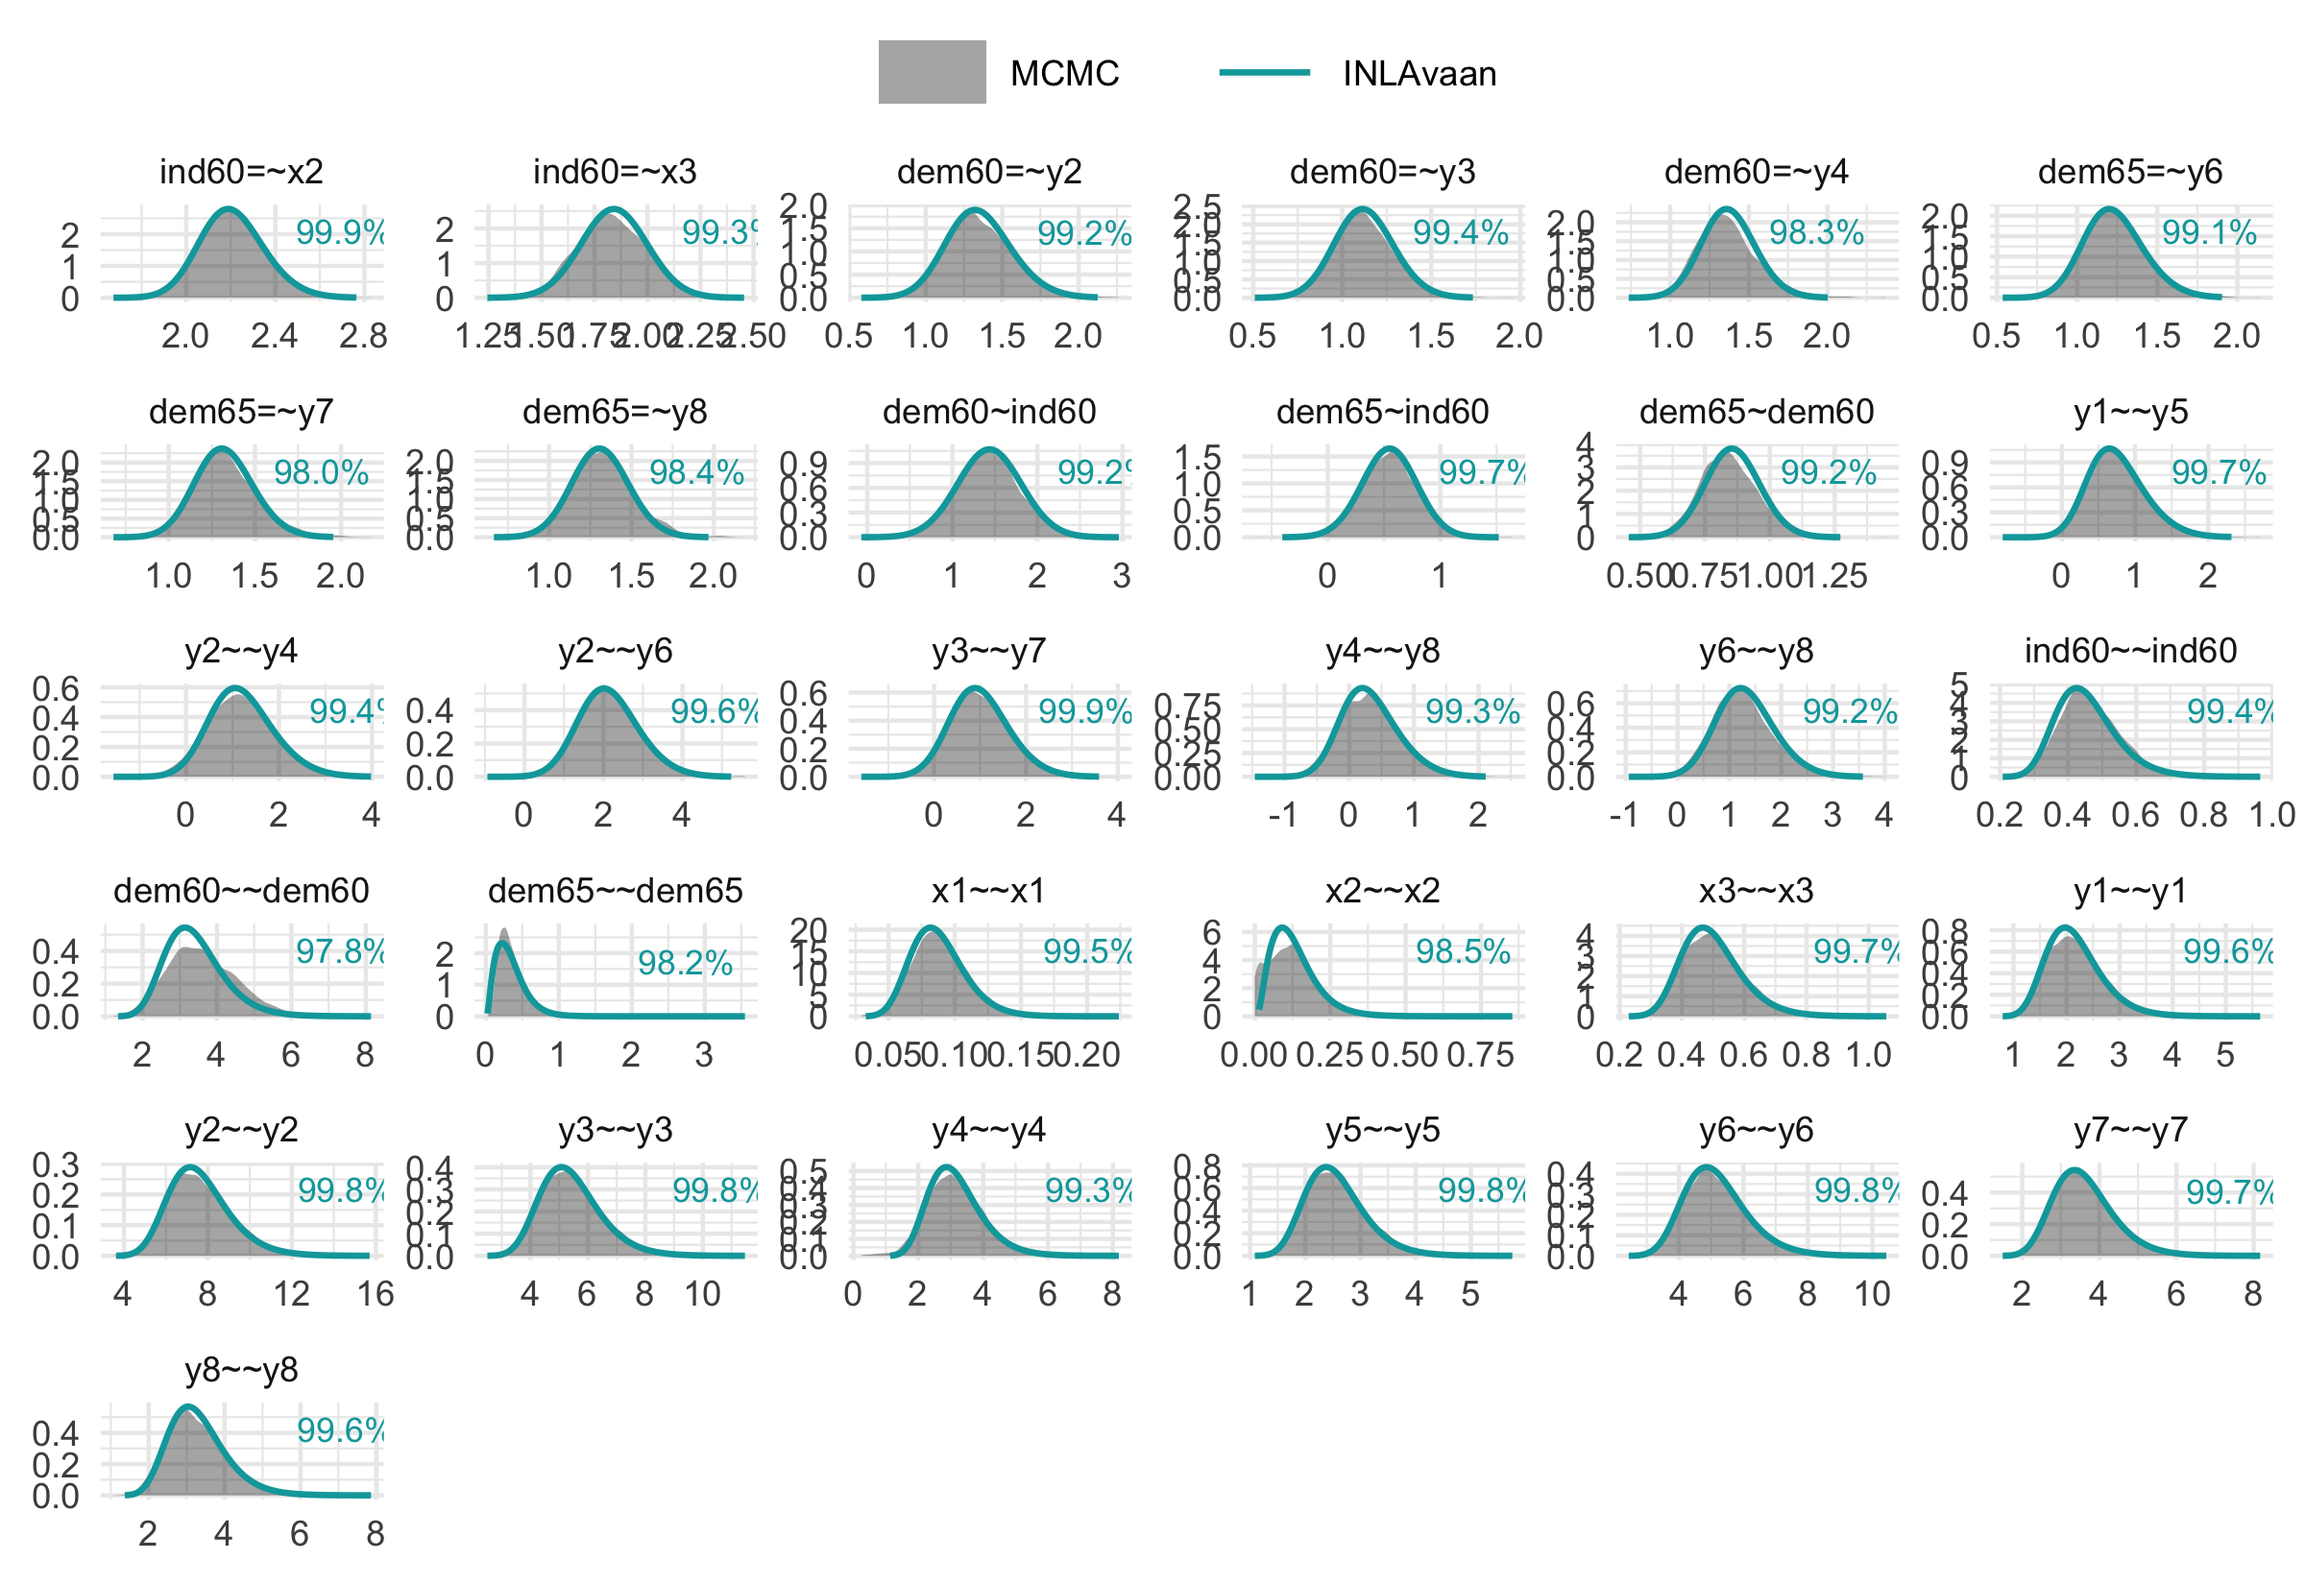
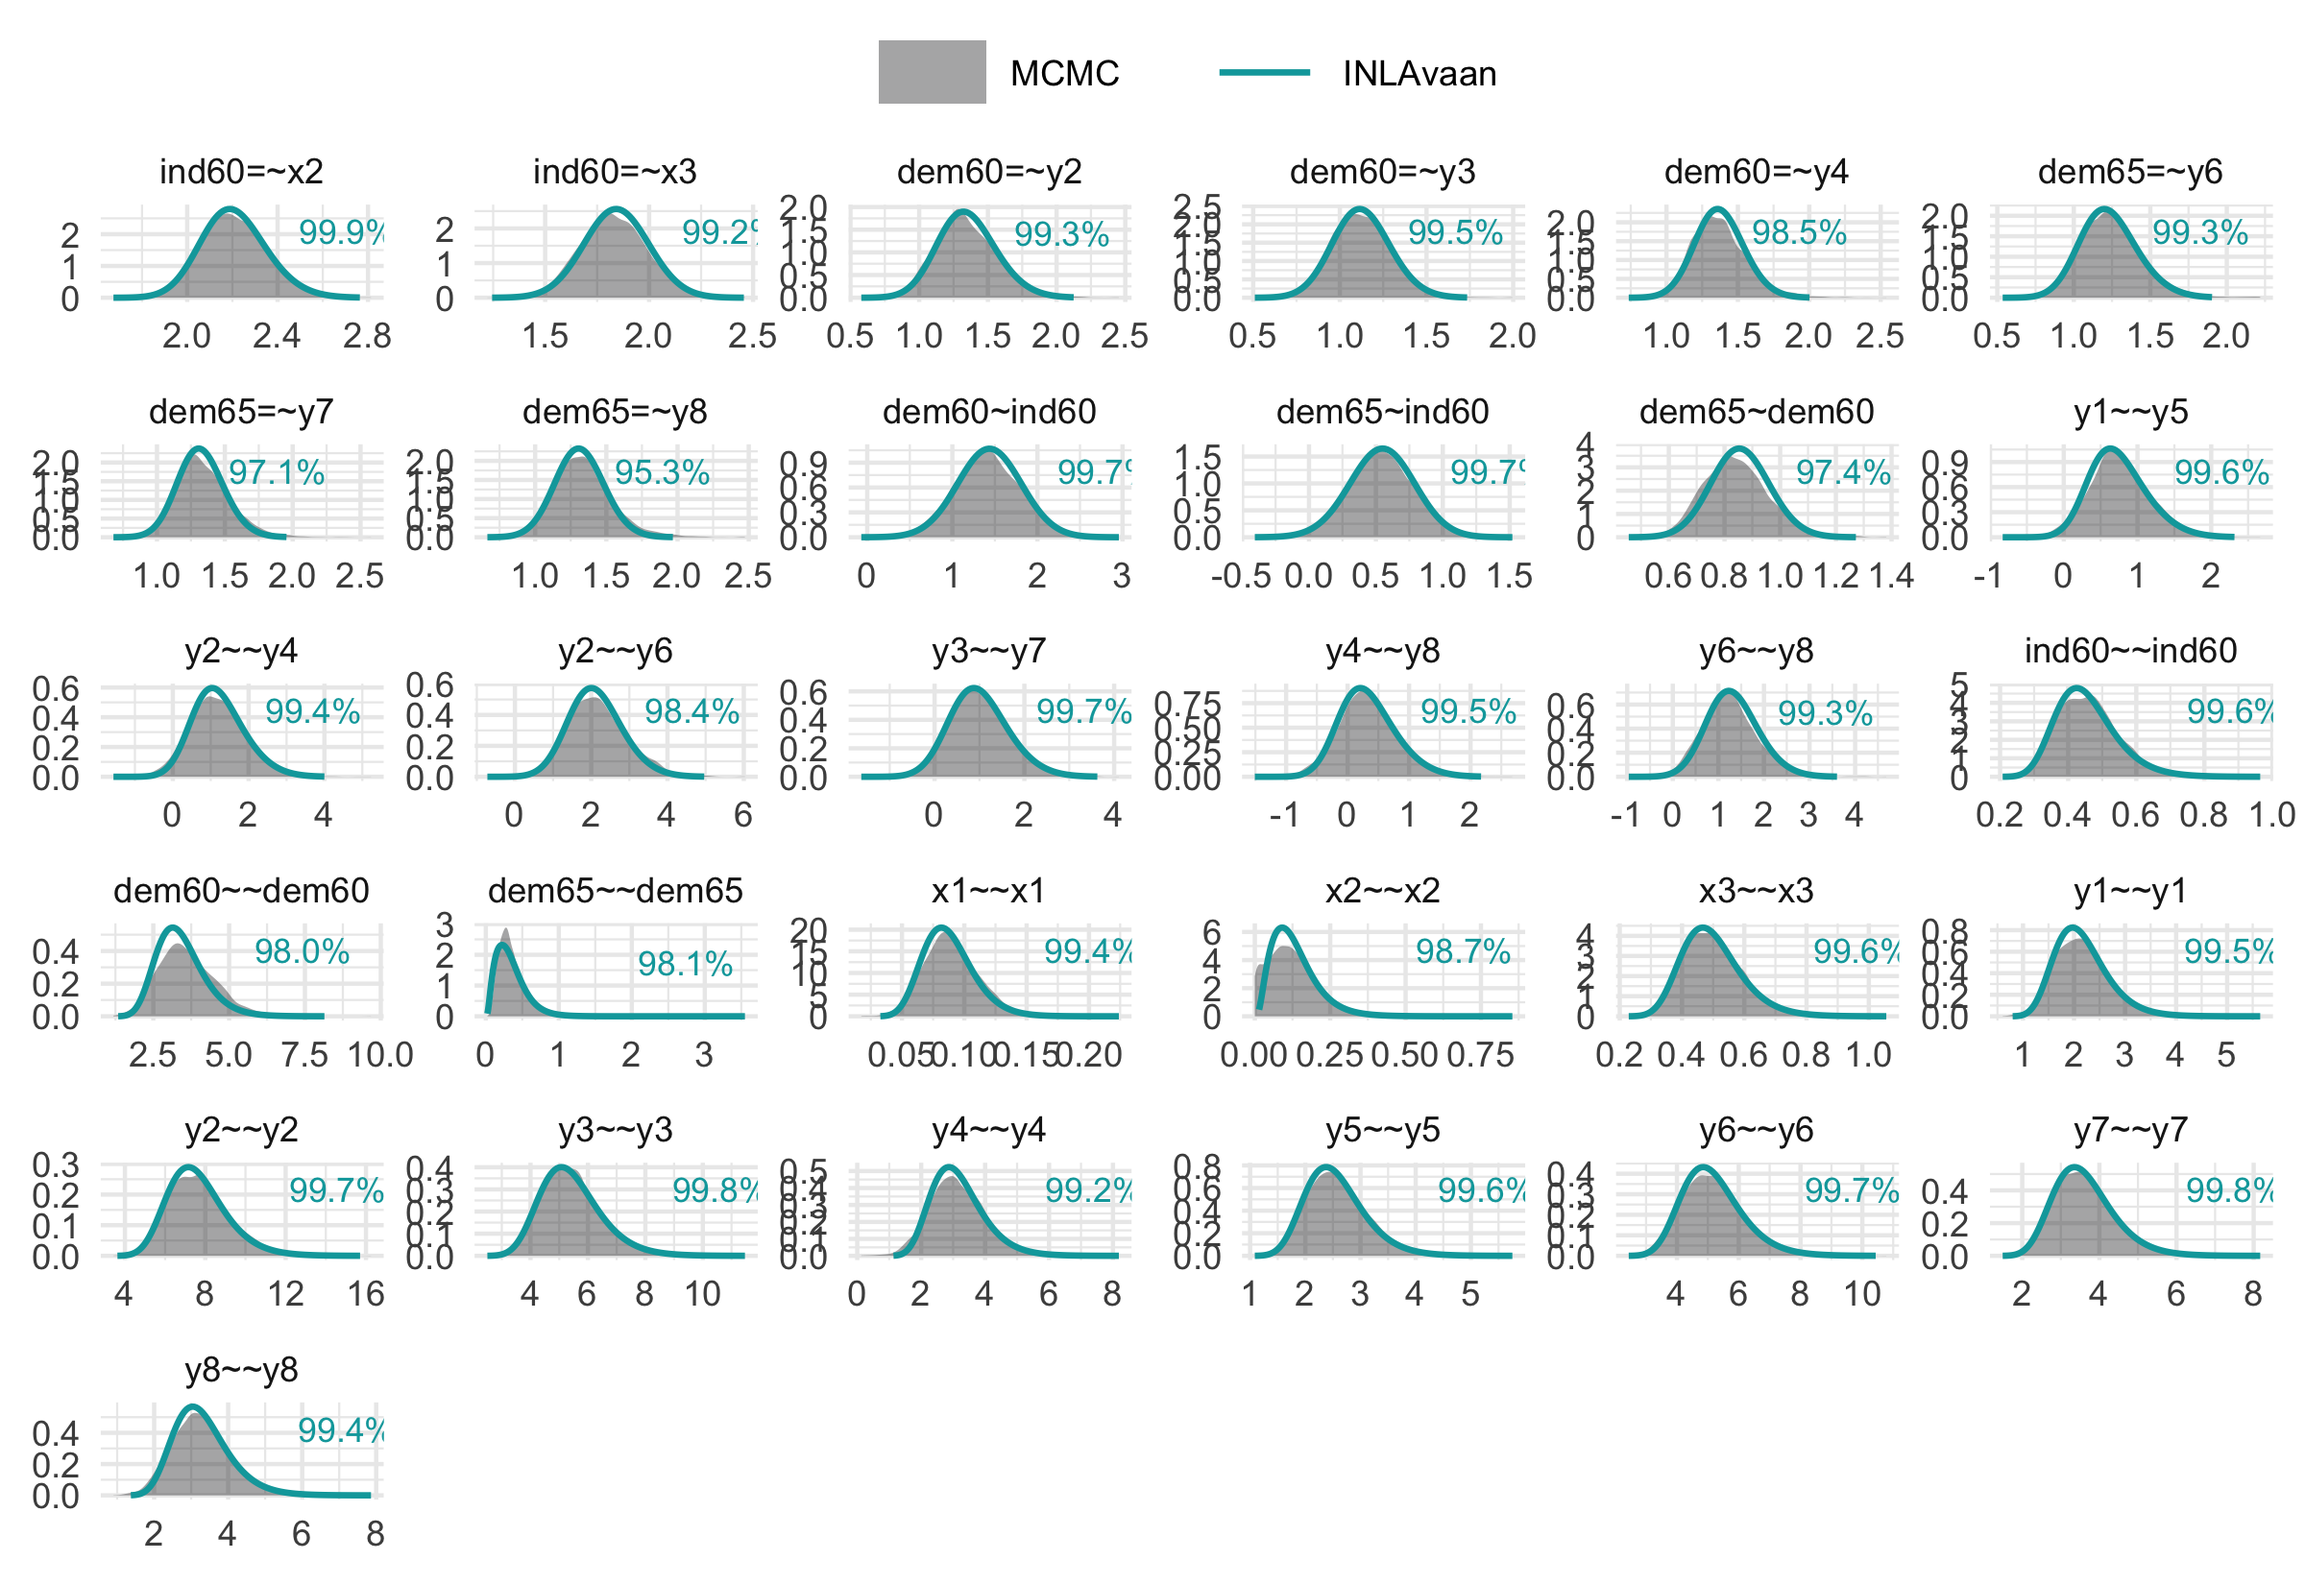
Update README, increment version

diff --git a/README.md b/README.md
@@ -64,39 +64,40 @@ utils::data("PoliticalDemocracy", package = "lavaan")
 fit <- asem(model, PoliticalDemocracy)
 #> ℹ Using MVN log-likelihood.
 #> ℹ Finding posterior mode.
-#> ✔ Finding posterior mode. [123ms]
+#> ✔ Finding posterior mode. [114ms]
 #> 
 #> ℹ Computing the Hessian.
-#> ✔ Computing the Hessian. [296ms]
+#> ✔ Computing the Hessian. [311ms]
 #> 
 #> ℹ Performing VB correction.
-#> ✔ Performing VB correction. [244ms]
+#> ✔ Performing VB correction. [253ms]
 #> 
 #> ℹ Using skew normal approximation.
 #> ⠙ Fitting skew normal to 0/31 marginals.
-#> ⠹ Fitting skew normal to 3/31 marginals.
-#> ⠸ Fitting skew normal to 6/31 marginals.
-#> ⠼ Fitting skew normal to 10/31 marginals.
-#> ⠴ Fitting skew normal to 14/31 marginals.
-#> ⠦ Fitting skew normal to 17/31 marginals.
-#> ⠧ Fitting skew normal to 21/31 marginals.
-#> ⠇ Fitting skew normal to 24/31 marginals.
-#> ⠏ Fitting skew normal to 28/31 marginals.
-#> ⠋ Fitting skew normal to 31/31 marginals.
-#> ✔ Fitting skew normal to 31/31 marginals. [1.8s]
+#> ⠹ Fitting skew normal to 2/31 marginals.
+#> ⠸ Fitting skew normal to 5/31 marginals.
+#> ⠼ Fitting skew normal to 8/31 marginals.
+#> ⠴ Fitting skew normal to 11/31 marginals.
+#> ⠦ Fitting skew normal to 15/31 marginals.
+#> ⠧ Fitting skew normal to 18/31 marginals.
+#> ⠇ Fitting skew normal to 22/31 marginals.
+#> ⠏ Fitting skew normal to 25/31 marginals.
+#> ⠋ Fitting skew normal to 28/31 marginals.
+#> ⠙ Fitting skew normal to 31/31 marginals.
+#> ✔ Fitting skew normal to 31/31 marginals. [2s]
 #> 
 #> ℹ Sampling covariances and defined parameters.
-#> ✔ Sampling covariances and defined parameters. [111ms]
+#> ✔ Sampling covariances and defined parameters. [118ms]
 #> 
 #> ⠙ Computing ppp and DIC.
 #> ⠹ Computing ppp and DIC.
 #> ⠸ Computing ppp and DIC.
 #> ⠼ Computing ppp and DIC.
-#> ✔ Computing ppp and DIC. [1.1s]
+#> ✔ Computing ppp and DIC. [936ms]
 #> 
 
 summary(fit)
-#> INLAvaan 0.2.0.9006 ended normally after 77 iterations
+#> INLAvaan 0.2.0.9007 ended normally after 77 iterations
 #> 
 #>   Estimator                                      BAYES
 #>   Optimization method                           NLMINB
@@ -107,12 +108,12 @@ summary(fit)
 #> Model Test (User Model):
 #> 
 #>    Marginal log-likelihood                   -1656.678 
-#>    PPP (Chi-square)                              0.499 
+#>    PPP (Chi-square)                              0.465 
 #> 
 #> Information Criteria:
 #> 
-#>    Deviance (DIC)                             3160.442 
-#>    Effective parameters (pD)                    31.519 
+#>    Deviance (DIC)                             3160.175 
+#>    Effective parameters (pD)                    31.386 
 #> 
 #> Parameter Estimates:
 #> 
@@ -123,57 +124,57 @@ summary(fit)
 #>                    Estimate       SD     2.5%    97.5%     NMAD    Prior       
 #>   ind60 =~                                                                     
 #>     x1                1.000                                                    
-#>     x2                2.208    0.145    1.940    2.511    0.35%    normal(0,10)
-#>     x3                1.843    0.156    1.539    2.149    0.19%    normal(0,10)
+#>     x2                2.208    0.145    1.940    2.511    0.004    normal(0,10)
+#>     x3                1.843    0.156    1.539    2.149    0.002    normal(0,10)
 #>   dem60 =~                                                                     
 #>     y1                1.000                                                    
-#>     y2                1.351    0.214    0.957    1.798    0.76%    normal(0,10)
-#>     y3                1.126    0.166    0.811    1.463    0.25%    normal(0,10)
-#>     y4                1.372    0.171    1.049    1.721    0.18%    normal(0,10)
+#>     y2                1.351    0.214    0.957    1.798    0.008    normal(0,10)
+#>     y3                1.126    0.166    0.811    1.463    0.002    normal(0,10)
+#>     y4                1.372    0.171    1.049    1.721    0.002    normal(0,10)
 #>   dem65 =~                                                                     
 #>     y5                1.000                                                    
-#>     y6                1.232    0.189    0.891    1.633    0.91%    normal(0,10)
-#>     y7                1.324    0.170    1.006    1.673    0.39%    normal(0,10)
-#>     y8                1.313    0.172    0.982    1.659    0.12%    normal(0,10)
+#>     y6                1.232    0.189    0.891    1.633    0.009    normal(0,10)
+#>     y7                1.324    0.170    1.006    1.673    0.004    normal(0,10)
+#>     y8                1.313    0.172    0.982    1.659    0.001    normal(0,10)
 #> 
 #> Regressions:
 #>                    Estimate       SD     2.5%    97.5%     NMAD    Prior       
 #>   dem60 ~                                                                      
-#>     ind60             1.436    0.373    0.705    2.168    0.08%    normal(0,10)
+#>     ind60             1.436    0.373    0.705    2.168    0.001    normal(0,10)
 #>   dem65 ~                                                                      
-#>     ind60             0.545    0.242    0.066    1.016    0.08%    normal(0,10)
-#>     dem60             0.857    0.105    0.655    1.067    0.31%    normal(0,10)
+#>     ind60             0.545    0.242    0.066    1.016    0.001    normal(0,10)
+#>     dem60             0.857    0.105    0.655    1.067    0.003    normal(0,10)
 #> 
 #> Covariances:
 #>                    Estimate       SD     2.5%    97.5%     NMAD    Prior       
 #>  .y1 ~~                                                                        
-#>    .y5                0.308    0.390    0.080    1.609    0.73%       beta(1,1)
+#>    .y5                0.308    0.393    0.068    1.606    0.007       beta(1,1)
 #>  .y2 ~~                                                                        
-#>    .y4                0.241    0.693   -0.018    2.701    0.70%       beta(1,1)
-#>    .y6                0.348    0.772    0.753    3.784    2.89%       beta(1,1)
+#>    .y4                0.241    0.696    0.004    2.730    0.007       beta(1,1)
+#>    .y6                0.348    0.711    0.829    3.620    0.029       beta(1,1)
 #>  .y3 ~~                                                                        
-#>    .y7                0.211    0.647   -0.168    2.374    0.64%       beta(1,1)
+#>    .y7                0.211    0.657   -0.186    2.395    0.006       beta(1,1)
 #>  .y4 ~~                                                                        
-#>    .y8                0.098    0.446   -0.445    1.303    0.83%       beta(1,1)
+#>    .y8                0.098    0.460   -0.466    1.336    0.008       beta(1,1)
 #>  .y6 ~~                                                                        
-#>    .y8                0.309    0.565    0.298    2.517    1.31%       beta(1,1)
+#>    .y8                0.309    0.571    0.276    2.519    0.013       beta(1,1)
 #> 
 #> Variances:
 #>                    Estimate       SD     2.5%    97.5%     NMAD    Prior       
-#>     ind60             0.455    0.090    0.309    0.660    0.38%      gamma(1,1)
-#>    .dem60             3.407    0.791    2.131    5.213    0.07%     gamma(1,.9)
-#>    .dem65             0.341    0.201    0.070    0.830    3.41%     gamma(1,.5)
-#>    .x1                0.088    0.020    0.053    0.133    1.26% gamma(1,.5)[sd]
-#>    .x2                0.132    0.074    0.031    0.312    4.45% gamma(1,.5)[sd]
-#>    .x3                0.498    0.097    0.339    0.718    0.19% gamma(1,.5)[sd]
-#>    .y1                2.152    0.523    1.312    3.349    0.27% gamma(1,.5)[sd]
-#>    .y2                7.630    1.481    5.211   10.993    0.26% gamma(1,.5)[sd]
-#>    .y3                5.423    1.070    3.676    7.853    0.21% gamma(1,.5)[sd]
-#>    .y4                3.163    0.826    1.847    5.062    0.43% gamma(1,.5)[sd]
-#>    .y5                2.557    0.547    1.670    3.801    0.05% gamma(1,.5)[sd]
-#>    .y6                5.166    0.992    3.544    7.419    0.32% gamma(1,.5)[sd]
-#>    .y7                3.611    0.789    2.327    5.402    0.18% gamma(1,.5)[sd]
-#>    .y8                3.300    0.759    2.076    5.035    0.14% gamma(1,.5)[sd]
+#>     ind60             0.455    0.090    0.309    0.660    0.004      gamma(1,1)
+#>    .dem60             3.407    0.791    2.131    5.213    0.001     gamma(1,.9)
+#>    .dem65             0.341    0.201    0.070    0.830    0.034     gamma(1,.5)
+#>    .x1                0.088    0.020    0.053    0.133    0.013 gamma(1,.5)[sd]
+#>    .x2                0.132    0.074    0.031    0.312    0.045 gamma(1,.5)[sd]
+#>    .x3                0.498    0.097    0.339    0.718    0.002 gamma(1,.5)[sd]
+#>    .y1                2.152    0.523    1.312    3.349    0.003 gamma(1,.5)[sd]
+#>    .y2                7.630    1.481    5.211   10.993    0.003 gamma(1,.5)[sd]
+#>    .y3                5.423    1.070    3.676    7.853    0.002 gamma(1,.5)[sd]
+#>    .y4                3.163    0.826    1.847    5.062    0.004 gamma(1,.5)[sd]
+#>    .y5                2.557    0.547    1.670    3.801    0.000 gamma(1,.5)[sd]
+#>    .y6                5.166    0.992    3.544    7.419    0.003 gamma(1,.5)[sd]
+#>    .y7                3.611    0.789    2.327    5.402    0.002 gamma(1,.5)[sd]
+#>    .y8                3.300    0.759    2.076    5.035    0.001 gamma(1,.5)[sd]
 ```
 
 ## Validation against MCMC
@@ -469,7 +470,7 @@ install.packages(
 To cite package `{INLAvaan}` in publications use:
 
 > Jamil, H (2026). *INLAvaan: Bayesian structural equation modelling
-> with INLA*. R package version 0.2.0.9006. URL:
+> with INLA*. R package version 0.2.0.9007. URL:
 > <https://inlavaan.haziqj.ml/>
 
 A BibTeX entry for LaTeX users is:
@@ -479,7 +480,7 @@ A BibTeX entry for LaTeX users is:
     title = {INLAvaan: Bayesian structural equation modelling with INLA},
     author = {Haziq Jamil},
     year = {2026},
-    note = {R package version 0.2.0.9006},
+    note = {R package version 0.2.0.9007},
     url = {https://inlavaan.haziqj.ml/},
   }
 ```
